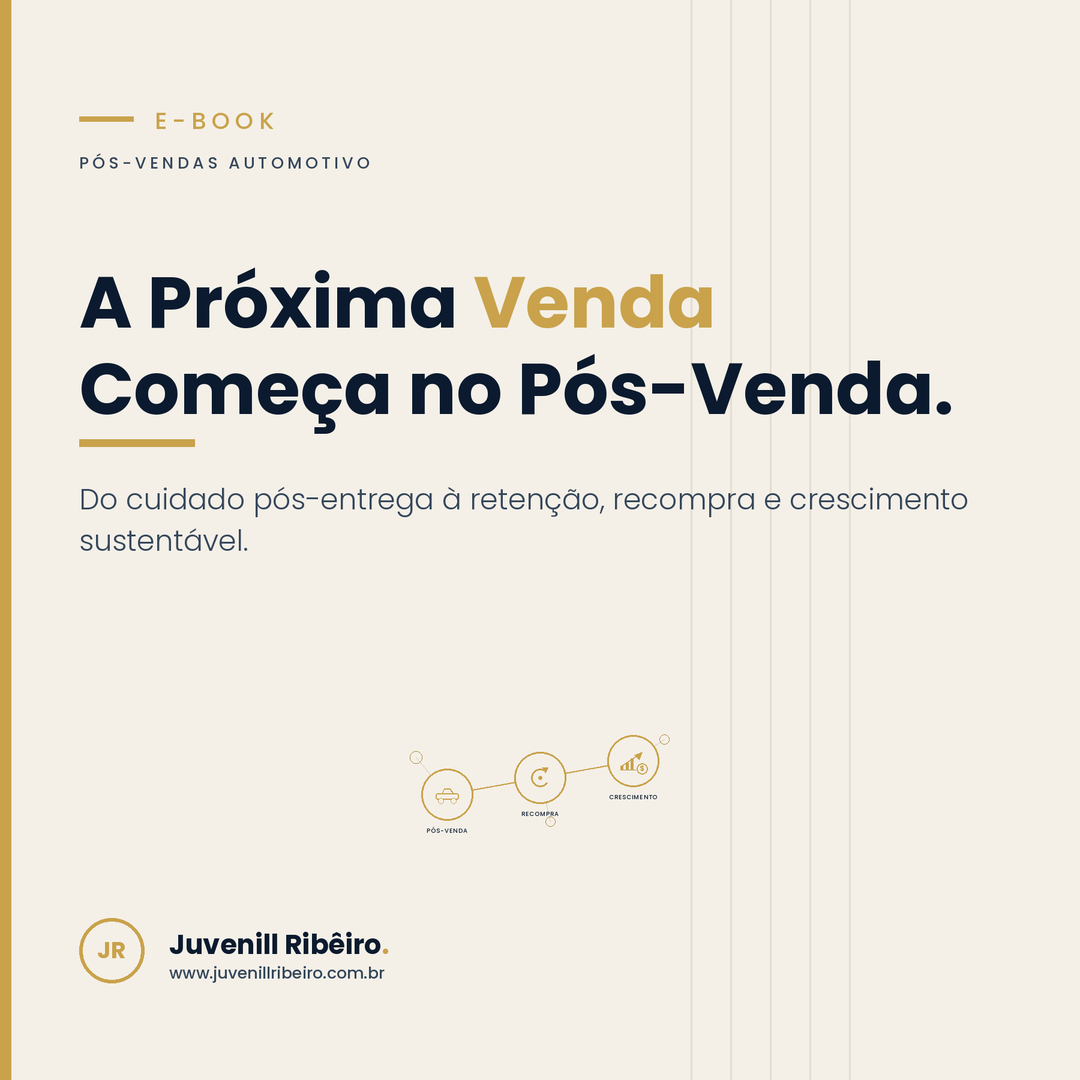
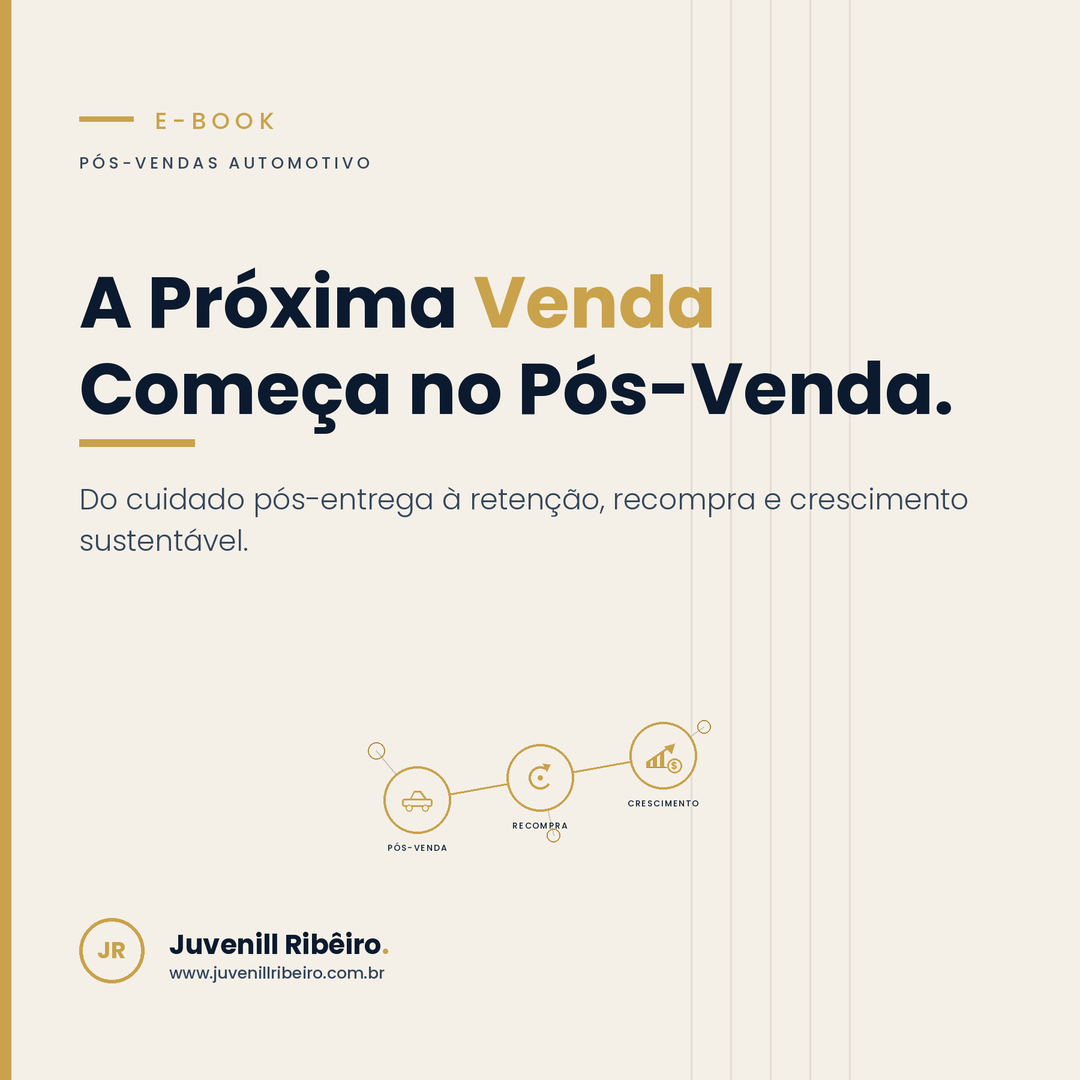
E-book "Silencio na Lideranca Custa Caro" + padroniza capas
- Novo e-book de Lideranca (capa clara 1080x1080 + link Hotmart hotm.io/UutuOv6L)
- Atualiza proxima-venda.png para a versao clara 1080x1080 do template (estava
  numa versao antiga/diferente)
- Demais capas ja estavam no padrao 1080x1080 clara (sem mudanca)

Changed region(s): [[0.4583, 0.6722, 0.6722, 0.7944], [0.3667, 0.7028, 0.4278, 0.7944]]

diff --git a/ebook/index.html b/ebook/index.html
@@ -102,6 +102,13 @@
       <p class="text-brand text-sm font-semibold tracking-[0.25em] uppercase mb-2">Liderança</p>
       <h2 class="font-display font-black text-3xl md:text-4xl leading-tight mb-8">E-books de Liderança</h2>
       <div class="grid sm:grid-cols-2 lg:grid-cols-3 gap-6">
+        <!-- E-BOOK: Silêncio na Liderança Custa Caro (capa) -->
+        <article class="group flex flex-col bg-card-gradient border border-border rounded-2xl overflow-hidden shadow-card-soft hover:border-brand/40 transition-colors">
+          <img src="../assets/ebooks/silencio-lideranca.png" alt="Silêncio na Liderança Custa Caro" class="w-full aspect-square object-cover" />
+          <div class="p-5 flex justify-center">
+            <a href="https://hotm.io/UutuOv6L" target="_blank" rel="noopener noreferrer" class="inline-flex items-center gap-2 bg-brand-gradient text-brand-foreground font-semibold px-6 py-3 rounded-lg shadow-brand hover:opacity-90 transition-opacity text-sm">Quero o e-book <svg xmlns="http://www.w3.org/2000/svg" width="24" height="24" viewBox="0 0 24 24" fill="none" stroke="currentColor" stroke-width="2" stroke-linecap="round" stroke-linejoin="round" class="w-4 h-4" aria-hidden="true"><path d="M5 12h14"></path><path d="m12 5 7 7-7 7"></path></svg></a>
+          </div>
+        </article>
         <!-- E-BOOK: Desafios da Liderança (capa) -->
         <article class="group flex flex-col bg-card-gradient border border-border rounded-2xl overflow-hidden shadow-card-soft hover:border-brand/40 transition-colors">
           <img src="../assets/ebooks/desafios-lideranca.png" alt="Desafios da Liderança" class="w-full aspect-square object-cover" />